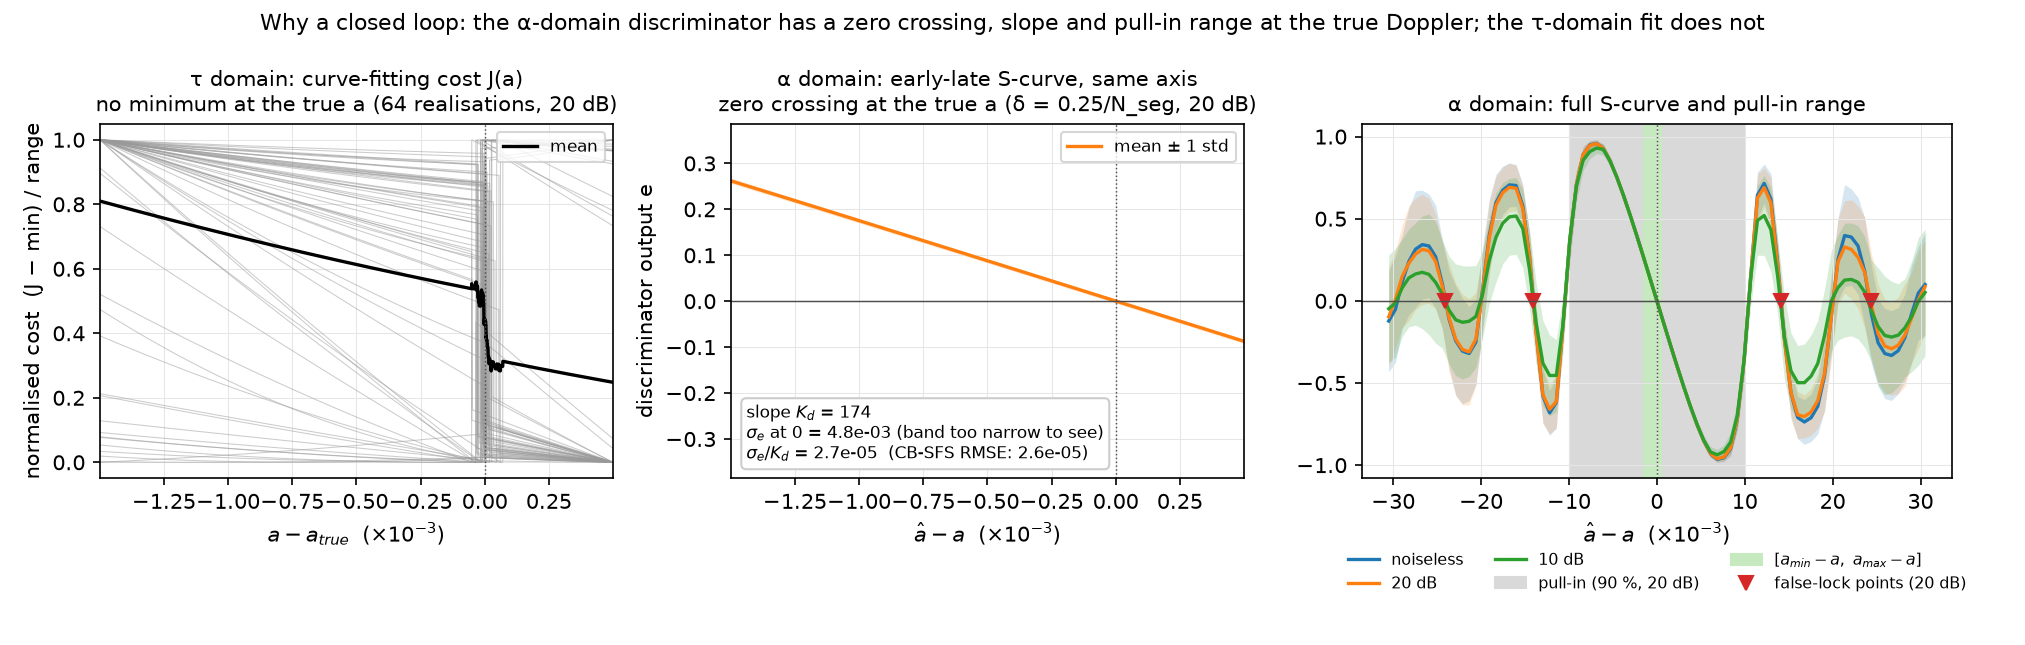
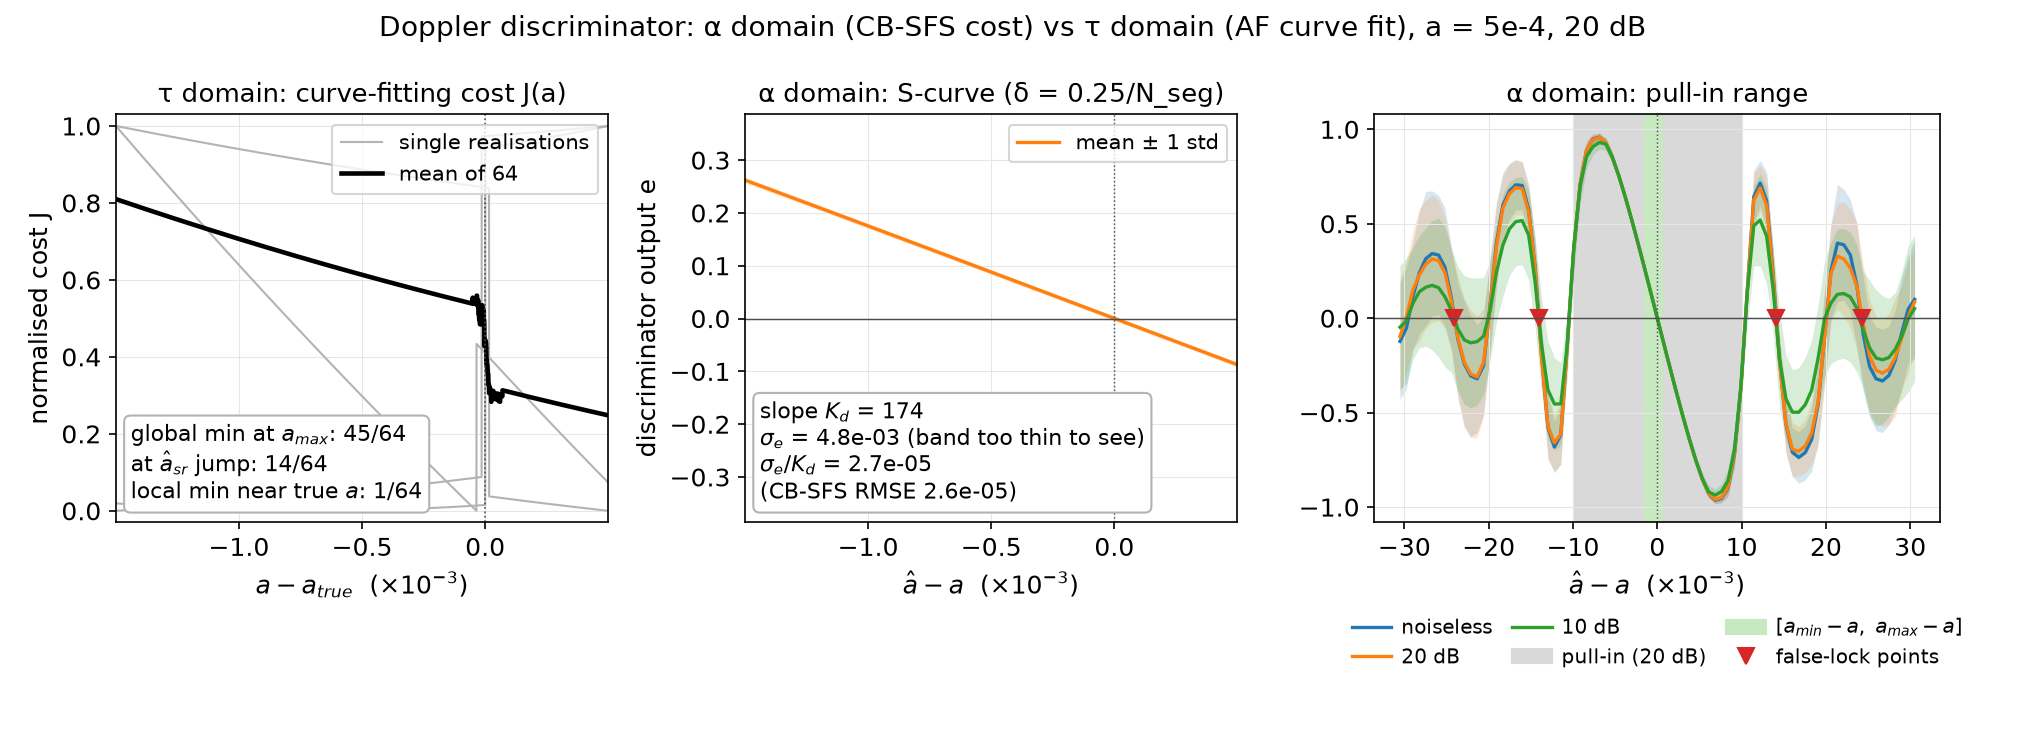
Step 3 follow-ups: default delta 0.25/N_seg, readable main figure, --replot
- discriminator.py: default delta 0.5/N_seg -> 0.25/N_seg (the value
  selected in Step 3: lowest sigma_e/K_d while covering the prior range);
  docstrings updated. All callers pass delta explicitly, so no results
  change.
- study_scurve.py: --replot regenerates tables and figures from
  results/scurve_raw/ without any computation; main-figure left panel
  redrawn (mean normalised J(a) + one representative realisation per
  outcome class + counts box), larger fonts and shorter titles so it
  reads at ~1000 px wide.
- figures/fig_scurve_vs_curvefit.png regenerated from the saved data;
  README / CLAUDE.md: default delta and --replot.

Changed region(s): [[0.0, 0.093, 0.6222, 0.8372], [0.6533, 0.124, 0.9644, 0.9302], [0.1244, 0.0, 0.8711, 0.062]]

diff --git a/study_scurve.py b/study_scurve.py
@@ -34,6 +34,7 @@ Usage (from this directory):
                                        # ~10-15 s per realisation-process)
     python study_scurve.py --resume --max-new 2   # in chunks of 2 conditions
     python study_scurve.py --resume    # continue / only redo the analysis
+    python study_scurve.py --replot    # tables + figures from the raw data only
 """
 
 from __future__ import annotations
@@ -267,11 +268,17 @@ def main():
                     help="trials per condition at a = 5e-3 (only checks "
                          "that the S-curve depends on the offset alone)")
     ap.add_argument("--procs", type=int, default=4)
+    ap.add_argument("--replot", action="store_true",
+                    help="only redo the analysis, tables and figures from "
+                         "results/scurve_raw/; never computes (exits if a "
+                         "condition is missing)")
     ap.add_argument("--max-new", type=int, default=None,
                     help="compute at most this many new conditions, then "
                          "exit (use with --resume to split the run into "
                          "shorter foreground calls)")
     args = ap.parse_args()
+    if args.replot:
+        args.resume, args.max_new = True, 0
 
     n_mc = 3 if args.quick else args.n_mc
     n_mc_for = {1e-3: n_mc, 1e-2: 3 if args.quick else args.n_mc_check}
@@ -346,15 +353,16 @@ def main():
                 f"[{time.time() - ts:.0f}s]")
 
     # ---------------- consistency check of the grid lookup ------------------
-    p0 = params_for(1e-3, 20.0)
-    _, _, y0 = _signal(p0, seeds[0])
-    jj = np.array([-13, -2, 0, 3, 13, -200, 200])
-    direct = disc.s_curve(y0, p0.a_true_eff, offset_of(jj, p0), p0,
-                          delta=0.5 / N_SEG, N_seg=N_SEG)
-    E_look = e_matrix(costs[(1e-3, 20.0)][:1], DELTA_M[0.5])[0]
-    look = E_look[[int(np.flatnonzero(OFF_J == j)[0]) for j in jj]]
-    log(f"  grid lookup vs discriminator.early_late: max |diff| = "
-        f"{np.max(np.abs(direct - look)):.2e}")
+    if not args.replot:
+        p0 = params_for(1e-3, 20.0)
+        _, _, y0 = _signal(p0, seeds[0])
+        jj = np.array([-13, -2, 0, 3, 13, -200, 200])
+        direct = disc.s_curve(y0, p0.a_true_eff, offset_of(jj, p0), p0,
+                              delta=0.5 / N_SEG, N_seg=N_SEG)
+        E_look = e_matrix(costs[(1e-3, 20.0)][:1], DELTA_M[0.5])[0]
+        look = E_look[[int(np.flatnonzero(OFF_J == j)[0]) for j in jj]]
+        log(f"  grid lookup vs discriminator.early_late: max |diff| = "
+            f"{np.max(np.abs(direct - look)):.2e}")
 
     # ---------------- (b) metrics ------------------------------------------
     results = {}
@@ -511,65 +519,80 @@ def main():
     r_main = results[(1e-3, 20.0, d_main)]
     dense = np.abs(r_main["off"]) <= 2.0e-3 + 1e-12
 
-    # main figure
-    fig, axes = plt.subplots(1, 3, figsize=(13.5, 4.3),
-                             gridspec_kw=dict(width_ratios=[1, 1, 1.15]))
-    ax = axes[0]
+    # main figure (for the email: must stay readable scaled to ~1000 px wide,
+    # hence the larger fonts and the uncluttered left panel)
     off_tau = (a_grid - p1.a_true_eff) * sc
-    for j in J:
-        ax.plot(off_tau, (j - j.min()) / (np.ptp(j) or 1), color="0.6",
-                lw=0.5, alpha=0.5)
     jn = np.array([(j - j.min()) / (np.ptp(j) or 1) for j in J])
-    ax.plot(off_tau, jn.mean(0), color="black", lw=1.6, label="mean")
-    ax.axvline(0, color="0.3", lw=0.7, ls=":")
-    ax.set_xlim(off_tau[0], off_tau[-1])
-    ax.set_xlabel(r"$a - a_{true}$  ($\times 10^{-3}$)")
-    ax.set_ylabel("normalised cost  (J − min) / range")
-    ax.set_title("τ domain: curve-fitting cost J(a)\n"
-                 f"no minimum at the true a ({n_mc} realisations, 20 dB)",
-                 fontsize=10)
-    ax.grid(True, color="0.9", lw=0.5)
-    ax.legend(loc="upper right", fontsize=8)
+    # one representative realisation per class of the global minimum of J
+    reps = []
+    for cls in ("a_max", "a_sr", "a_min", "interior"):
+        idx = [i for i, r in enumerate(tau_rows) if r["where"] == cls]
+        if idx:
+            reps.append(idx[0])
 
-    ax = axes[1]
-    band(ax, r_main, COL_SNR[20.0], f"mean ± 1 std", sel=dense)
-    deco(ax)
-    ax.set_xlim(off_tau[0], off_tau[-1])
-    ax.set_ylabel("discriminator output e")
-    ax.text(0.03, 0.04,
-            f"slope $K_d$ = {r_main['K_d']:.0f}\n"
-            f"$\\sigma_e$ at 0 = {r_main['sig_e']:.1e} (band too narrow "
-            f"to see)\n"
-            f"$\\sigma_e/K_d$ = {r_main['sig_over_K']:.1e}  "
-            f"(CB-SFS RMSE: {r_main['cb_rmse']:.1e})",
-            transform=ax.transAxes, fontsize=8, va="bottom",
-            bbox=dict(boxstyle="round", fc="white", ec="0.8"))
-    ax.set_title("α domain: early-late S-curve, same axis\n"
-                 f"zero crossing at the true a (δ = {d_main}/N_seg, 20 dB)",
-                 fontsize=10)
-    ax.legend(loc="upper right", fontsize=8)
+    with plt.rc_context({"font.size": 12}):
+        fig, axes = plt.subplots(1, 3, figsize=(13.5, 4.9),
+                                 gridspec_kw=dict(width_ratios=[1, 1, 1.15]))
+        ax = axes[0]
+        for n, i in enumerate(reps):
+            ax.plot(off_tau, jn[i], color="0.7", lw=1.0,
+                    label="single realisations" if n == 0 else None)
+        ax.plot(off_tau, jn.mean(0), color="black", lw=2.2,
+                label=f"mean of {n_mc}")
+        ax.axvline(0, color="0.3", lw=0.8, ls=":")
+        ax.set_xlim(off_tau[0], off_tau[-1])
+        ax.set_ylim(-0.03, 1.03)
+        ax.set_xlabel(r"$a - a_{true}$  ($\times 10^{-3}$)")
+        ax.set_ylabel("normalised cost J")
+        ax.set_title("τ domain: curve-fitting cost J(a)", fontsize=12.5)
+        ax.grid(True, color="0.9", lw=0.5)
+        ax.legend(loc="upper right", fontsize=10)
+        ax.text(0.03, 0.04,
+                f"global min at $a_{{max}}$: {counts['a_max']}/{n_mc}\n"
+                f"at $\\hat a_{{sr}}$ jump: {counts['a_sr']}/{n_mc}\n"
+                f"local min near true $a$: {n_near}/{n_mc}",
+                transform=ax.transAxes, fontsize=10.5, va="bottom",
+                bbox=dict(boxstyle="round", fc="white", ec="0.7"))
 
-    ax = axes[2]
-    for snr in SNRS:
-        band(ax, results[(1e-3, snr, d_main)], COL_SNR[snr], LBL_SNR[snr])
-    ax.axvspan(r_main["lo90"] * sc, r_main["hi90"] * sc, color="0.85",
-               zorder=0, label="pull-in (90 %, 20 dB)")
-    ax.axvspan(need_lo * sc, need_hi * sc, color="#c7e9c0", zorder=0,
-               label=r"$[a_{min}-a,\ a_{max}-a]$")
-    xs = [x for x in stable_crossings(r_main["off"], r_main["e_mean"])
-          if abs(x) > 1e-3]
-    ax.plot(np.array(xs) * sc, np.zeros(len(xs)), "v", color="#d62728",
-            ms=7, label="false-lock points (20 dB)")
-    deco(ax)
-    ax.set_title("α domain: full S-curve and pull-in range", fontsize=10)
-    ax.legend(loc="upper center", bbox_to_anchor=(0.5, -0.17), ncol=3,
-              fontsize=7.5, frameon=False)
-    fig.suptitle("Why a closed loop: the α-domain discriminator has a zero "
-                 "crossing, slope and pull-in range at the true Doppler; the "
-                 "τ-domain fit does not", fontsize=10.5)
-    fig.tight_layout()
-    fig.savefig(fig_dir / "fig_scurve_vs_curvefit.png", dpi=150)
-    plt.close(fig)
+        ax = axes[1]
+        band(ax, r_main, COL_SNR[20.0], "mean ± 1 std", sel=dense)
+        deco(ax)
+        ax.set_xlim(off_tau[0], off_tau[-1])
+        ax.set_ylabel("discriminator output e")
+        ax.text(0.03, 0.04,
+                f"slope $K_d$ = {r_main['K_d']:.0f}\n"
+                f"$\\sigma_e$ = {r_main['sig_e']:.1e} (band too thin to see)\n"
+                f"$\\sigma_e/K_d$ = {r_main['sig_over_K']:.1e}\n"
+                f"(CB-SFS RMSE {r_main['cb_rmse']:.1e})",
+                transform=ax.transAxes, fontsize=10.5, va="bottom",
+                bbox=dict(boxstyle="round", fc="white", ec="0.7"))
+        ax.set_title(f"α domain: S-curve (δ = {d_main}/N_seg)",
+                     fontsize=12.5)
+        ax.legend(loc="upper right", fontsize=10)
+
+        ax = axes[2]
+        for snr in SNRS:
+            band(ax, results[(1e-3, snr, d_main)], COL_SNR[snr],
+                 LBL_SNR[snr])
+        ax.axvspan(r_main["lo90"] * sc, r_main["hi90"] * sc, color="0.85",
+                   zorder=0, label="pull-in (20 dB)")
+        ax.axvspan(need_lo * sc, need_hi * sc, color="#c7e9c0", zorder=0,
+                   label=r"$[a_{min}-a,\ a_{max}-a]$")
+        xs = [x for x in stable_crossings(r_main["off"], r_main["e_mean"])
+              if abs(x) > 1e-3]
+        ax.plot(np.array(xs) * sc, np.zeros(len(xs)), "v", color="#d62728",
+                ms=8, label="false-lock points")
+        deco(ax)
+        ax.set_title("α domain: pull-in range", fontsize=12.5)
+        ax.legend(loc="upper center", bbox_to_anchor=(0.5, -0.19), ncol=3,
+                  fontsize=9.5, frameon=False, columnspacing=1.0,
+                  handletextpad=0.5)
+        fig.suptitle("Doppler discriminator: α domain (CB-SFS cost) vs "
+                     "τ domain (AF curve fit), a = 5e-4, 20 dB",
+                     fontsize=13.5)
+        fig.tight_layout()
+        fig.savefig(fig_dir / "fig_scurve_vs_curvefit.png", dpi=150)
+        plt.close(fig)
 
     # delta comparison
     fig, axes = plt.subplots(1, 2, figsize=(11, 4))

diff --git a/ocdm_doppler/discriminator.py b/ocdm_doppler/discriminator.py
@@ -18,8 +18,12 @@ late point alpha_p + delta is nearer the peak and C+ > C-. The loop update is
 therefore a_hat <- a_hat + mu * e, and near the truth
 e ~ K_d (a - a_hat) with K_d > 0.
 
-The main lobe of C around a harmonic has nulls at about +/- 1/N_seg, so the
-default delta is 0.5 / N_seg (half-way down the lobe). A Doppler offset
+The main lobe of C around a harmonic has nulls at about +/- 1/N_seg. The
+default delta is 0.25 / N_seg: in the Step-3 study (study_scurve.py) it gave
+the lowest sigma_e / K_d of {0.25, 0.5, 0.75} / N_seg while its pull-in range
+(+/- 9.9e-3) still covers the prior range a_min..a_max; larger delta
+steepens the S-curve and widens the pull-in, but the noise grows faster
+because the probe points sit lower on the lobe. A Doppler offset
 a_hat - a moves alpha_p by k (a_hat - a) / N_sym, so the discriminator keeps
 the correct sign roughly while |a_hat - a| < N_sym / (k N_seg) (the pull-in
 range).
@@ -59,11 +63,13 @@ def early_late(y: np.ndarray, a_hat, params: SystemParams, k: int = 1,
                normalized: bool = True):
     """Early-late discriminator output e at one or more Doppler estimates.
 
+    `delta` defaults to 0.25 / N_seg (lowest sigma_e / K_d in the Step-3
+    study while still covering the prior range; see the module docstring).
     All 2 * len(a_hat) cycle frequencies are evaluated in a single
     `cbsfs.cost_function` call. Returns a scalar for a scalar `a_hat`.
     """
     N_seg = params.N_seg if N_seg is None else int(N_seg)
-    delta = 0.5 / N_seg if delta is None else float(delta)
+    delta = 0.25 / N_seg if delta is None else float(delta)
     a_arr = np.atleast_1d(np.asarray(a_hat, dtype=float))
     ap = predicted_alpha(a_arr, params, k)
     cost = cbsfs.cost_function(y, np.concatenate([ap + delta, ap - delta]),

diff --git a/README.md b/README.md
@@ -36,7 +36,7 @@ Package `ocdm_doppler/` (NumPy only):
 | `cbsfs.py` | segmented CAF (27), autocorrelated CAF (28), cost function (29), peak location, Doppler estimate (33)–(34) |
 | `af_estimation.py` | documents' Step 2(a)–(b): time selection (Eqn. 1), lag grid, empirical AF, window detection |
 | `curve_fit.py` | documents' Step 3: `|A0|^2` and `tau_p0` estimates, MSE curve fit over `N_a` candidate Doppler values |
-| `discriminator.py` | early-late discriminator on the CB-SFS cost (29): `predicted_alpha`, `early_late`, `s_curve`; `e > 0` means `a_hat` too small |
+| `discriminator.py` | early-late discriminator on the CB-SFS cost (29): `predicted_alpha`, `early_late`, `s_curve`; `e > 0` means `a_hat` too small; default `delta = 0.25/N_seg` (selected in Step 3) |
 
 Scripts (run from this directory; need `matplotlib` for the figures):
 
@@ -46,7 +46,7 @@ Scripts (run from this directory; need `matplotlib` for the figures):
 | `make_figures.py` | `figures/*.png` + `figures/figures_log.txt` — every figure of the documents, the curve-fitting cost surface, a [CBSFS] Fig. 5-style plot (~9 min; `--a-sr genie` skips CB-SFS) |
 | `mc_curvefit.py` | `results/mc_curvefit.csv` / `.md` — Monte-Carlo NMSE and bias tables of the documents, ours next to theirs; incremental, `--resume` after an interruption |
 | `mc_cbsfs_22jan.py` | Monte-Carlo NMSE of CB-SFS alone |
-| `study_scurve.py` | Step 3: discriminator S-curves, metrics and the tau-domain contrast → `results/scurve.csv` / `.md` / `_log.txt`, raw costs in `results/scurve_raw/`, `figures/fig_scurve_*.png`; `--quick`, `--resume`, `--max-new` (~27 min compute, 4 processes) |
+| `study_scurve.py` | Step 3: discriminator S-curves, metrics and the tau-domain contrast → `results/scurve.csv` / `.md` / `_log.txt`, raw costs in `results/scurve_raw/`, `figures/fig_scurve_*.png`; `--quick`, `--resume`, `--max-new` (~27 min compute, 4 processes), `--replot` (tables + figures from the raw data only, seconds) |
 | `study_cbsfs_accuracy.py` | CB-SFS sweeps over `M`, `N_seg`, harmonic index (tables below) |
 
 ## Design decisions worth knowing

diff --git a/ocdm_doppler/CLAUDE.md b/ocdm_doppler/CLAUDE.md
@@ -125,8 +125,8 @@ interim summary from the committed state.
 
 | file | contents |
 |---|---|
-| `discriminator.py` | early-late discriminator on the CB-SFS cost (29): `predicted_alpha`, `early_late` (vectorised over `a_hat`, one `cost_function` call), `s_curve`, `error_from_costs`. **Sign: `e > 0` ⇒ `a_hat` too small; loop update `a_hat += mu e`.** Default `delta = 0.5/N_seg`; the study found `0.25/N_seg` best (lowest σ_e/K_d). |
-| `../study_scurve.py` | S-curves (a = 5e-4 N_mc 64, a = 5e-3 N_mc 16 as an offset-only check; noiseless/20/10 dB; δ ∈ {0.25, 0.5, 0.75}/N_seg), metrics, τ-domain contrast, 4 figures `fig_scurve_*.png`, `results/scurve.*`, raw costs `results/scurve_raw/*.npz` (reuse with `--resume`). All alphas of one realisation lie on one grid (h = 1/(64 N_seg)), so it is one `cost_function` call per realisation. |
+| `discriminator.py` | early-late discriminator on the CB-SFS cost (29): `predicted_alpha`, `early_late` (vectorised over `a_hat`, one `cost_function` call), `s_curve`, `error_from_costs`. **Sign: `e > 0` ⇒ `a_hat` too small; loop update `a_hat += mu e`.** Default `delta = 0.25/N_seg`, the value selected by the study (lowest σ_e/K_d while covering the prior range). |
+| `../study_scurve.py` | S-curves (a = 5e-4 N_mc 64, a = 5e-3 N_mc 16 as an offset-only check; noiseless/20/10 dB; δ ∈ {0.25, 0.5, 0.75}/N_seg), metrics, τ-domain contrast, 4 figures `fig_scurve_*.png`, `results/scurve.*`, raw costs `results/scurve_raw/*.npz` (reuse with `--resume`; `--replot` redraws tables and figures from them without any computation). All alphas of one realisation lie on one grid (h = 1/(64 N_seg)), so it is one `cost_function` call per realisation. |
 | `../verify_infrastructure.py` | new check 6 (checks 1–5 untouched) |
 
 Outcome (δ = 0.25/N_seg, a = 5e-4): zero crossing at the truth (bias
